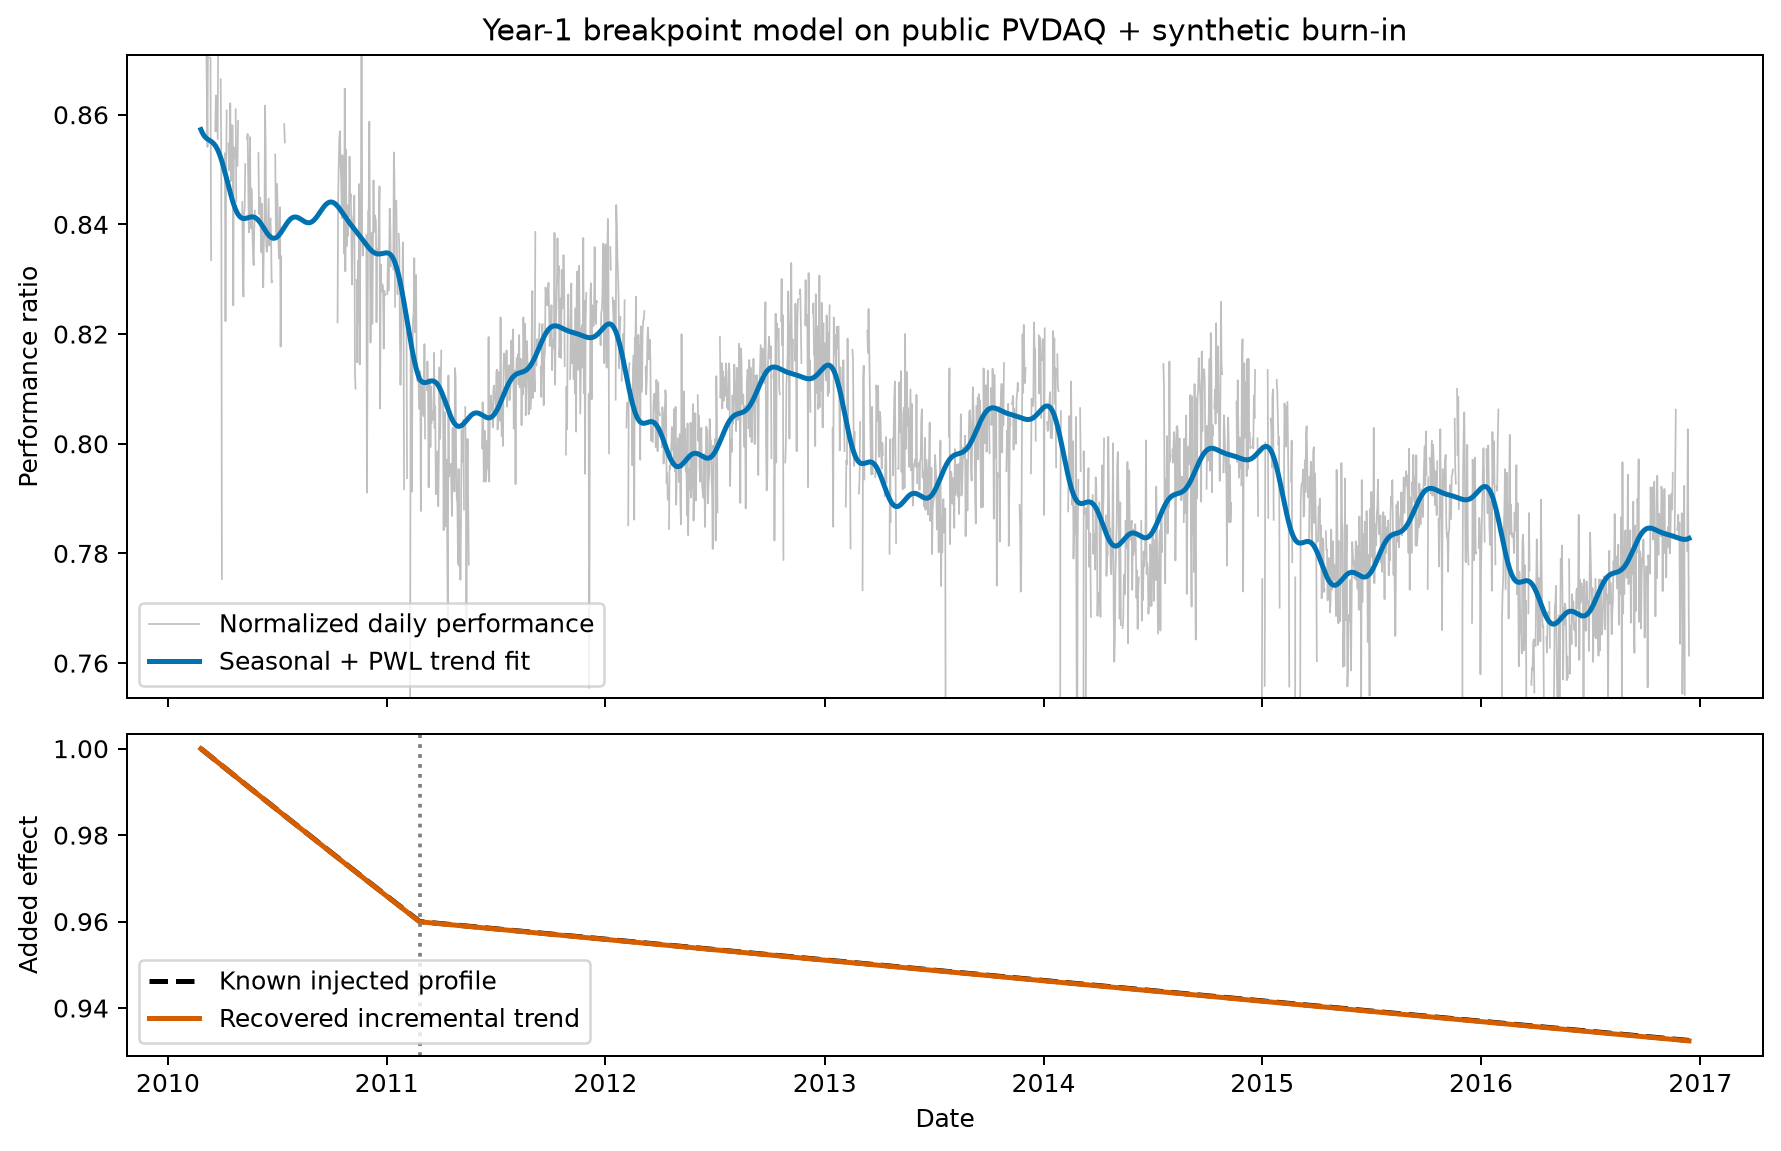
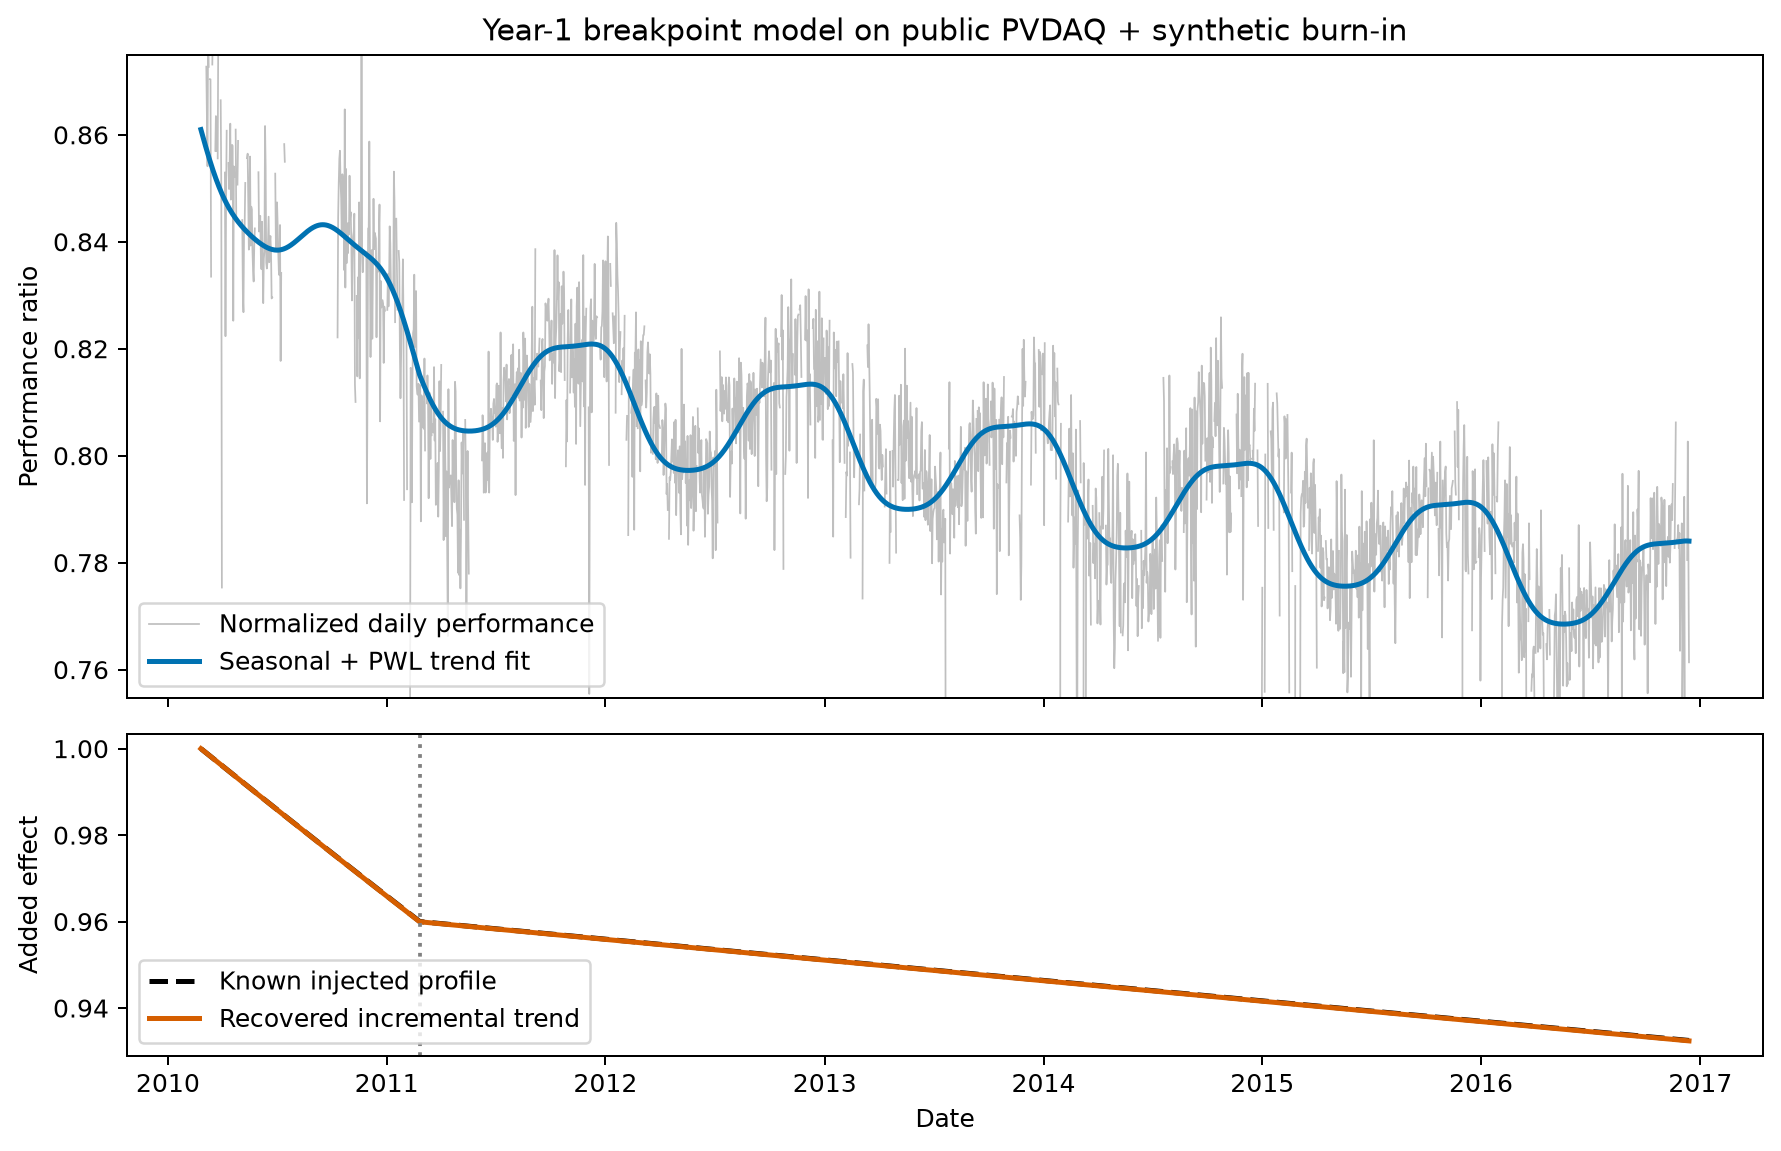
Add SD++ recovery example and simplify seasonal default
Document synthetic dry-soiling recovery with a reproducible PVDAQ figure and generated degradation and soiling report.

Reduce the ordinary signal-decomposition seasonal default from six to three Fourier harmonic pairs, matching the SD++ preset while preserving explicit configuration.

Regenerate the basic and year-1 breakpoint figures under the updated default and extend the preset test.

diff --git a/docs/generate_signal_decomposition_figures.py b/docs/generate_signal_decomposition_figures.py
@@ -16,6 +16,7 @@ import rdtools
 
 DOCS_DIR = Path(__file__).resolve().parent
 IMAGE_DIR = DOCS_DIR / "sphinx" / "source" / "_images"
+GENERATED_DIR = DOCS_DIR / "sphinx" / "source" / "_generated"
 
 
 def fitted_limits(values, margin_fraction=0.15, minimum_margin=0.01):
@@ -49,10 +50,10 @@ def load_pvdaq_system_4():
     return data
 
 
-def make_analysis(data):
+def make_analysis(data, power_column="power_ac"):
     """Construct the same sensor analysis used in the SD examples."""
     return rdtools.TrendAnalysis(
-        data["power_ac"],
+        data[power_column],
         data["poa"],
         temperature_ambient=data["Tamb"],
         gamma_pdc=-0.0034,
@@ -203,6 +204,83 @@ def main():
         bbox_inches="tight",
     )
     plt.close(figure)
+
+    # Apply the released synthetic dry-soiling ratio to measured PVDAQ power,
+    # then recover it through the public SD++ sensor-analysis workflow.
+    soiled_data = data.copy()
+    soiled_data["power_with_soiling"] = (
+        soiled_data["power_ac"] * soiled_data["soiling"]
+    )
+    soiling_analysis = make_analysis(soiled_data, "power_with_soiling")
+    soiling_analysis.sensor_analysis(
+        analyses=["signal_decomposition"],
+        sd_kwargs={"include_soiling": True, "n_bootstrap": 0},
+    )
+    soiling_result = soiling_analysis.results["sensor"]["signal_decomposition"]
+    soiling_info = soiling_result["sd_trend_results"]
+    soiling_dates = soiling_analysis.sensor_aggregated_performance.index
+    estimated_soiling = soiling_info["components"]["soiling"]
+    known_soiling = data["soiling"].resample("D").mean().reindex(soiling_dates)
+
+    figure, axes = plt.subplots(
+        2,
+        1,
+        figsize=(10, 6.5),
+        sharex=True,
+        gridspec_kw={"height_ratios": [2, 1]},
+    )
+    axes[0].plot(
+        soiling_dates,
+        soiling_analysis.sensor_aggregated_performance,
+        color="0.55",
+        linewidth=0.7,
+        alpha=0.55,
+        label="Normalized daily performance",
+    )
+    axes[0].plot(
+        soiling_dates,
+        soiling_info["components"]["fit"],
+        color="#0072B2",
+        linewidth=2,
+        label="SD++ fit",
+    )
+    axes[0].set_ylim(fitted_limits(soiling_info["components"]["fit"]))
+    axes[0].set_ylabel("Performance ratio")
+    axes[0].set_title("SD++ recovery of synthetic dry soiling on public PVDAQ")
+    axes[0].legend(loc="lower left")
+
+    axes[1].plot(
+        soiling_dates,
+        known_soiling,
+        color="black",
+        linewidth=1.2,
+        label="Known synthetic soiling",
+    )
+    axes[1].plot(
+        soiling_dates,
+        estimated_soiling,
+        color="#D55E00",
+        linewidth=1.5,
+        label="Estimated soiling component",
+    )
+    axes[1].axhline(1, color="0.5", linestyle=":", linewidth=1)
+    axes[1].set_ylabel("Soiling ratio")
+    axes[1].set_xlabel("Date")
+    axes[1].legend(loc="lower left")
+    figure.tight_layout()
+    figure.savefig(
+        IMAGE_DIR / "signal_decomposition_soiling.png",
+        dpi=180,
+        bbox_inches="tight",
+    )
+    plt.close(figure)
+
+    GENERATED_DIR.mkdir(exist_ok=True)
+    report = rdtools.signal_decomposition.format_degradation_report(soiling_info)
+    (GENERATED_DIR / "signal_decomposition_soiling_report.txt").write_text(
+        report,
+        encoding="utf-8",
+    )
 
 
 if __name__ == "__main__":

diff --git a/rdtools/signal_decomposition.py b/rdtools/signal_decomposition.py
@@ -1798,8 +1798,7 @@ def degradation(
     loss : str or None
         Residual loss. ``None`` selects ``'huber'`` with ``huber_M=0.05``.
     numharmonics : int or None
-        Number of Fourier harmonic pairs. ``None`` selects 6 normally and 3
-        when ``include_soiling=True``.
+        Number of Fourier harmonic pairs. ``None`` selects 3.
     lam_seasonal : float
         Regularisation weight on Fourier coefficients.
     lam_trend : float
@@ -1929,7 +1928,7 @@ def degradation(
     else:
         resolved = {
             'loss': 'huber' if loss is None else loss,
-            'numharmonics': 6 if numharmonics is None else numharmonics,
+            'numharmonics': 3 if numharmonics is None else numharmonics,
             'huber_M': 0.05 if huber_M is None else huber_M,
             'log_transform': True if log_transform is None else log_transform,
         }

diff --git a/rdtools/test/signal_decomposition_test.py b/rdtools/test/signal_decomposition_test.py
@@ -118,6 +118,7 @@ class TestDegradationReturnStructure:
         assert info['args']['loss'] == 'huber'
         assert info['args']['huber_M'] == 0.05
         assert info['args']['log_transform'] is True
+        assert info['args']['numharmonics'] == 3
 
     def test_problem_status_optimal(self):
         s = _make_series()

diff --git a/docs/sphinx/source/signal_decomposition.rst b/docs/sphinx/source/signal_decomposition.rst
@@ -159,6 +159,11 @@ override all three choices. SD++ soiling uses the same log-Huber residual
 preset, but there it is part of the frozen detection and estimation algorithm
 and is not a user-tuning choice.
 
+The default seasonal model uses three Fourier harmonic pairs. This captures
+broad annual structure without giving the seasonal component unnecessary
+short-scale flexibility; ``numharmonics`` remains selectable for ordinary
+trend analysis. SD++ also uses three harmonics as part of its frozen preset.
+
 Typical degradation estimation
 ------------------------------
 
@@ -408,6 +413,31 @@ The fitted daily multiplicative ratio is also available as
 ``soiling_result["sd_trend_results"]["components"]["soiling"]``. A null
 result contains an all-ones ratio and zero loss rather than a forced or heavily
 regularized soiling curve.
+
+Synthetic recovery example
+^^^^^^^^^^^^^^^^^^^^^^^^^^
+
+.. figure:: _images/signal_decomposition_soiling.png
+   :alt: Signal decomposition with soiling recovering a known synthetic dry
+         soiling component applied to the public PVDAQ example.
+   :width: 100%
+
+   The released synthetic dry-soiling ratio is applied multiplicatively to the
+   measured PVDAQ power before running the normal ``sensor_analysis`` workflow.
+   The upper panel's y-axis is centered on the SD++ fit so extreme observations
+   remain in the robust estimation but do not determine the displayed range.
+   The lower panel compares the known input ratio with the recovered soiling
+   component.
+
+Example report
+^^^^^^^^^^^^^^
+
+The same fit produces the following report through
+``format_degradation_report``. Negative rates denote degradation or soiling
+accumulation, as indicated by their units.
+
+.. literalinclude:: _generated/signal_decomposition_soiling_report.txt
+   :language: markdown
 
 Scope and limitations
 ^^^^^^^^^^^^^^^^^^^^^
